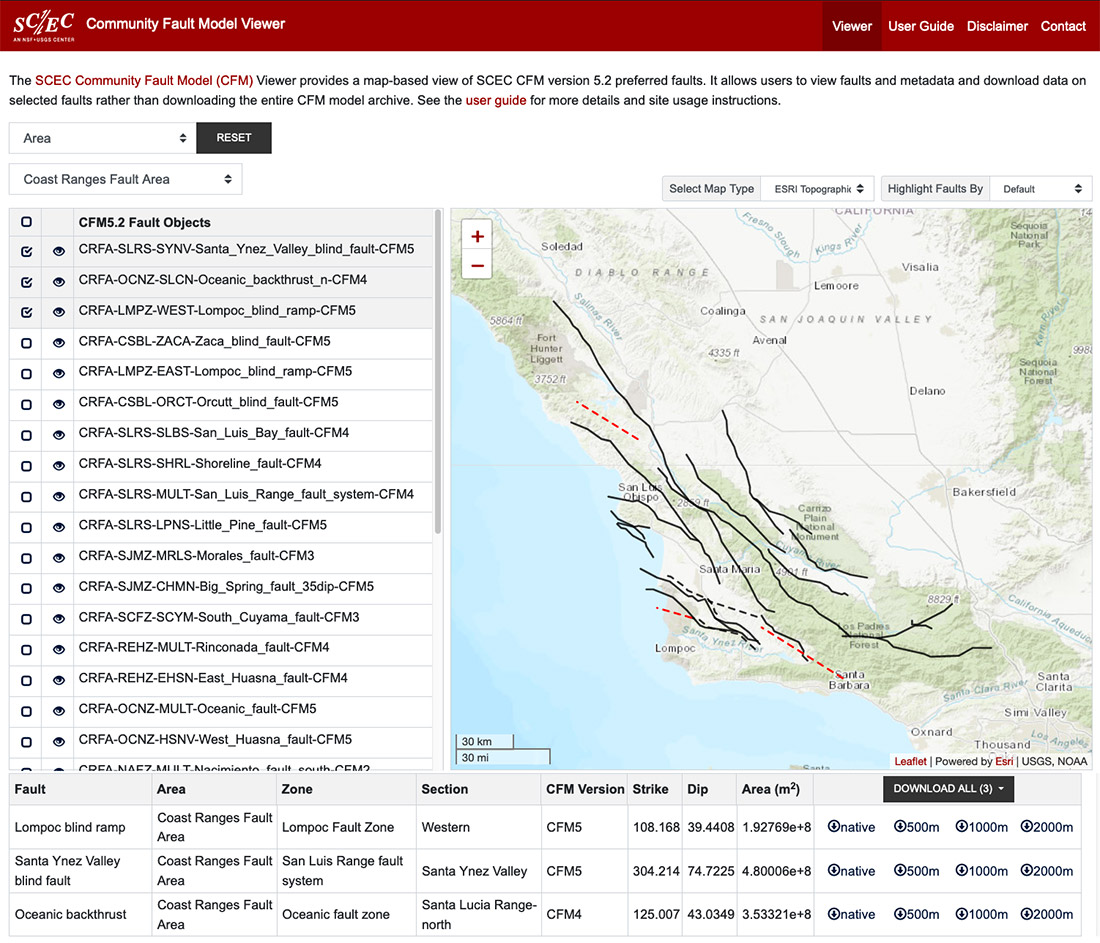
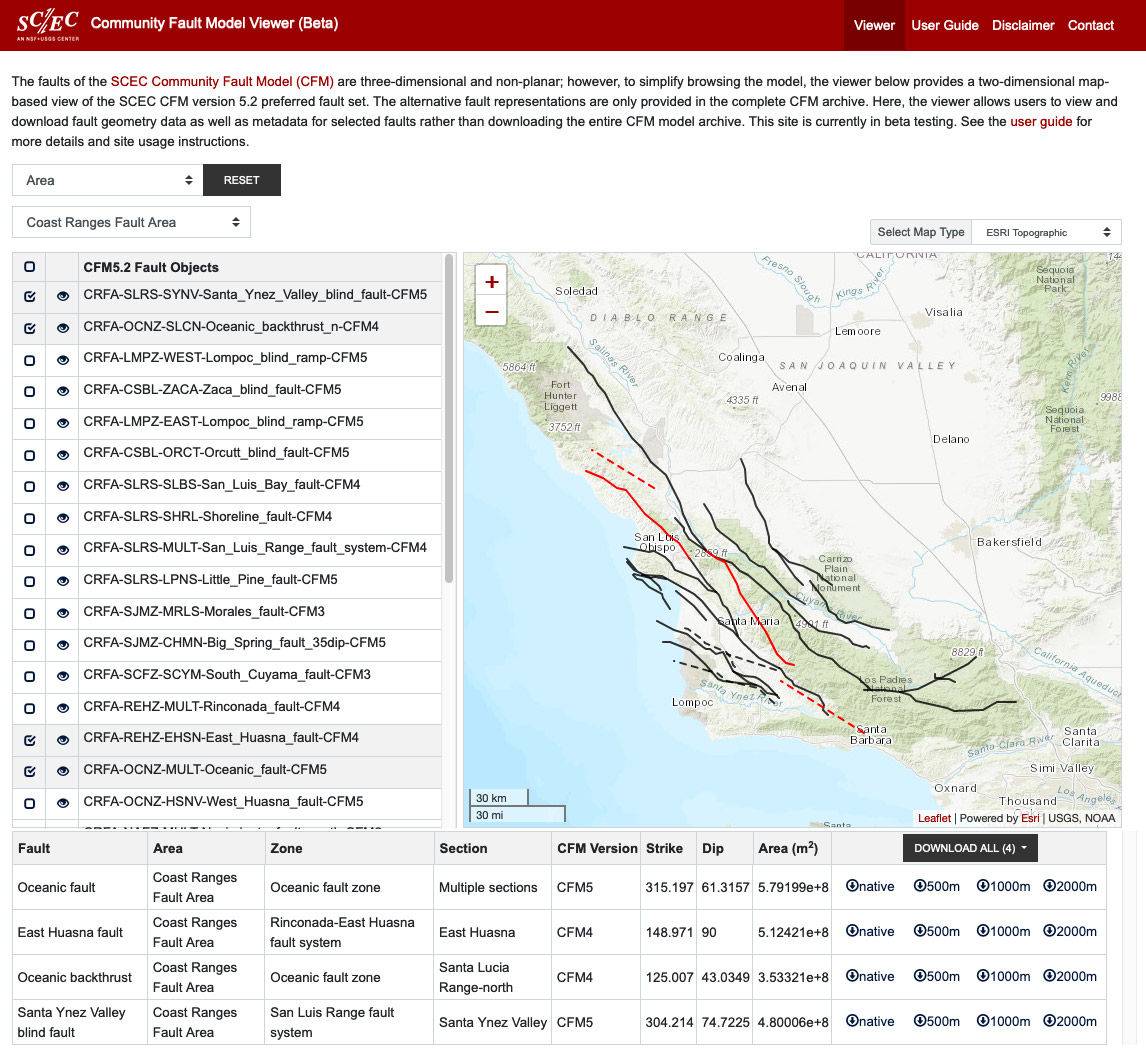
updates to user guide, some terminology, screenshots, etc.

Changed region(s): [[0.0, 0.0, 1.0, 1.0], [0.8036, 0.3998, 0.8655, 0.4305], [0.6182, 0.369, 0.68, 0.3998]]

diff --git a/web/guide.php b/web/guide.php
@@ -19,14 +19,14 @@ $header = getHeader("User Guide");
     <script type='text/javascript' src='js/vendor/jquery.min.js'></script>
     <script type='text/javascript' src='js/vendor/bootstrap.min.js'></script>
     <script type='text/javascript' src='js/vendor/jquery-ui.js'></script>
-    <title>Community Fault Model Viewer: User Guide</title>
+    <title>Community Fault Model Viewer (Beta): User Guide</title>
 </head>
 <body>
 <?php echo $header; ?>
 
 <div class="container info-page-container scec-main-container guide">
 
-    <h1>User Guide <i>(DRAFT)</i></h1>
+    <h1>User Guide</h1>
 
     <div class="row">
         <div class="col-12">
@@ -49,18 +49,20 @@ $header = getHeader("User Guide");
                below for more details.) Click on the eye icon (<span class="glyphicon glyphicon-eye-open"></span>) to
                hide or show a fault. </p>
             <p>
-                The map on the right displays each fault in its geographic location, with blind faults appearing as dashed lines. On top of the map, there are two
-                controls. The first allows the base map to be changed. By default, the map shown is <a
+                The map on the right displays each fault in its geographic location, with blind faults appearing as dashed lines. On top of the map, there is a
+                control that allows the base map to be changed. By default, the map shown is <a
                         href="https://services.arcgisonline.com/ArcGIS/rest/services/World_Topo_Map/MapServer">ESRI Topographic</a>.
                 The other map types are: <a
                         href="https://services.arcgisonline.com/ArcGIS/rest/services/NatGeo_World_Map/MapServer">ESRI National Geographic</a>, <a
                         href="https://services.arcgisonline.com/ArcGIS/rest/services/World_Imagery/MapServer">ESRI Imagery</a>, <a
-                        href="https://opentopomap.org">OTM Topographic</a>, and <a href="https://www.openstreetmap.org">OSM Street</a>. The other available control highlights the displayed faults by their strike or dip in a color spectrum from red (low values) to blue (high values). </p>
+                        href="https://opentopomap.org">OTM Topographic</a>, and <a href="https://www.openstreetmap.org">OSM Street</a>.</p>
+
+            <p><i>This site is a beta version undergoing active testing and review by the CFM community. To report any bugs or issues, please see the <a href="contact">contact page</a>.</i></p>
 
             <h4>Search</h4>
             <p>
                 The site provides a number of search criteria, primarily keyword and latitude/longitude but also the
-                following advanced search criteria: fault area, fault zone, section, name, strike, and dip. Once a
+                following advanced search criteria: fault area, fault zone, section, and name. Once a
                 search type is selected, controls will appear below in the form of another dropdown, text input boxes, or
                 sliders. </p>
             <p>
@@ -74,20 +76,23 @@ $header = getHeader("User Guide");
             <h4>Viewing and Downloading Data</h4>
 
             <p>
-                Metadata files in JSON format and tsurf files are available for download from this site. First, select the desired faults by clicking on the fault displayed on the map or clicking on fault listed in the box* to the left of the map. The selected faults are highlighted in red** on the map. The selected faults' metadata appear in the metadata table* at the bottom of the page. Click on the links on the rightmost column of the metadata table to download data for one fault. Click on the "DOWNLOAD ALL" button to download data for all selected faults. The download options are: metadata only, or metadata along with tsurf files in native, 500m, 1000m, or 2000m resolution in a ZIP archive file. </p>
+                Metadata files in JSON format and tsurf files are available for download from this site. First, select the desired faults by clicking on the fault displayed on the map or clicking on fault listed in the box* to the left of the map. The selected faults are highlighted in red** on the map. The selected faults' metadata appear in the metadata table* at the bottom of the page. Click on the links on the rightmost column of the metadata table to download data for one fault. Click on the "DOWNLOAD ALL" button to download data for all selected faults. The download options are: metadata only, or metadata along with tsurf files in native, 500m, 1000m, 2000m, or "All of the Above", in a ZIP archive file. </p>
 
 
             <p>* The scrollable boxes on this site can contain more data than is visible at one time.
+                <!--
                 <br/>
-               ** When highlighting faults by strike or slip, selected faults appear turquoise rather than red. This is
-               to avoid confusion with the strike/slip color scale. </p>
+               ** When highlighting faults by strike or dip, selected faults appear turquoise rather than red. This is
+               to avoid confusion with the strike/slip color scale.
+               -->
+            </p>
 
 
             <h4>Notes</h4>
             <ul>
                 <li>
-                    Projections: Fault representations are provided in Universal Transverse Mercator projection (UTM zone 11 S, North American datum 1927). </li>
-                <li>Strike and dip are weighted averages. The true fault surface is non-planar.</li>
+                    Projections: 3D fault representations in gocad format are provided in Universal Transverse Mercator projection (UTM zone 11S, North American datum 1927).</li>
+<!--                <li>Strike and dip are weighted averages. The true fault surface is non-planar.</li>-->
                 <li>The fault object names are comprised of metadata for each fault. For example,
                     "SAFS-SAFZ-MULT-Banning_fault_strand-CFM4" represents:
                     <ul>

diff --git a/web/viewer.php b/web/viewer.php
@@ -5,7 +5,7 @@ $header = getHeader("Viewer");
 <!DOCTYPE html>
 <html lang="en">
 <head>
-    <title>Community Fault Model Viewer</title>
+    <title>Community Fault Model Viewer (Beta)</title>
     <meta charset="utf-8">
     <meta name="viewport" content="width=device-width, initial-scale=1.0">
     <link href="css/vendor/font-awesome.min.css" rel="stylesheet">
@@ -114,7 +114,7 @@ $header = getHeader("Viewer");
 <div class="container main">
     <div class="row">
         <div class="col-12">
-            <p>The faults of the <a href="https://www.scec.org/research/cfm">SCEC Community Fault Model (CFM)</a> are three-dimensional and non-planar; however, to simplify browsing the model, the viewer below provides a two-dimensional map-based view of the SCEC CFM version 5.2 preferred fault set. The alternative fault representations are only provided in the complete CFM archive. Here, the viewer allows users to view and download fault geometry data as well as metadata for slected faults rather than downloading the entire CFM model archive.  See the <a href="guide">user guide</a> for more details and site usage instructions.</p>
+            <p>The faults of the <a href="https://www.scec.org/research/cfm">SCEC Community Fault Model (CFM)</a> are three-dimensional and non-planar; however, to simplify browsing the model, the viewer below provides a two-dimensional map-based view of the SCEC CFM version 5.2 preferred fault set. The alternative fault representations are only provided in the complete CFM archive. Here, the viewer allows users to view and download fault geometry data as well as metadata for selected faults rather than downloading the entire CFM model archive. This site is currently in beta testing. See the <a href="guide">user guide</a> for more details and site usage instructions.</p>
         </div>
     </div>
 
@@ -311,7 +311,7 @@ $header = getHeader("Viewer");
                 </div>
             </div>
         </div>
-        <div class="col-5 d-flex offset-3 align-items-end mb-2">
+        <div class="col-3 d-flex offset-5 align-items-end mb-2">
             <div>&nbsp;</div>
             <div class="input-group input-group-sm" id="map-controls">
                 <div class="input-group-prepend">
@@ -379,9 +379,6 @@ $header = getHeader("Viewer");
                                         Download All <span id="download-counter"></span>
                                     </button>
                                     <div class="dropdown-menu dropdown-menu-right">
-                                        <button class="dropdown-item" type="button" value="all"
-                                                onclick="executeDownload(this.value);">All
-                                        </button>
                                         <button class="dropdown-item" type="button" value="meta"
                                                 onclick="executeDownload(this.value);">Metadata
                                         </button>
@@ -396,6 +393,9 @@ $header = getHeader("Viewer");
                                         </button>
                                         <button class="dropdown-item" type="button" value="2000m"
                                                 onclick="executeDownload(this.value);">2000m + Metadata
+                                        </button>
+                                        <button class="dropdown-item" type="button" value="all"
+                                              onclick="executeDownload(this.value);">All of the Above
                                         </button>
                                     </div>
                                 </div>

diff --git a/web/disclaimer.php b/web/disclaimer.php
@@ -19,14 +19,14 @@ $header = getHeader("Disclaimer");
     <script type='text/javascript' src='js/vendor/jquery.min.js'></script>
     <script type='text/javascript' src='js/vendor/bootstrap.min.js'></script>
     <script type='text/javascript' src='js/vendor/jquery-ui.js'></script>
-    <title>Community Fault Model Viewer: Disclaimer</title>
+    <title>Community Fault Model Viewer (Beta): Disclaimer</title>
 </head>
 <body>
 <?php echo $header; ?>
 
 <div class="container info-page-container scec-main-container">
 
-    <h1>Disclaimer <i>(DRAFT)</i></h1>
+    <h1>Disclaimer</h1>
 
     <div>
 		<p>The Community Fault Model (CFM) Viewer Tool is provided “as is” and without warranties of any kind. While <a href="https://www.scec.org">SCEC</a> and the <a href="https://www.scec.org/research/cfm">the CFM development team</a> have made every effort to provide data from reliable sources or methodologies, SCEC and the CFM development team do not make any representations or warranties as to the accuracy, completeness, reliability, currency, or quality of any data provided herein. SCEC and the CFM development team do not intend the results provided by this tool to replace the sound judgment of a competent professional, who has knowledge and experience in the appropriate field(s) of practice. By using this tool, you accept to release SCEC and the CFM development team of any and all liability.</p>

diff --git a/web/php/navigation.php b/web/php/navigation.php
@@ -38,7 +38,7 @@ _END;
     <div class="container top">
         <nav class="navbar navbar-expand-lg navbar-dark  scec-header">
             <a class="navbar-brand" href="$host_site_actual_path"><img class="scec-logo" src="img/sceclogo_transparent.png">
-                &nbsp;Community Fault Model Viewer</a>
+                &nbsp;Community Fault Model Viewer (Beta)</a>
                   <button class="navbar-toggler" type="button" data-toggle="collapse" data-target="#navbarNav" aria-controls="navbarNav" aria-expanded="false" aria-label="Toggle navigation">
     <span class="navbar-toggler-icon"></span>
   </button>

diff --git a/web/contact.php b/web/contact.php
@@ -19,7 +19,7 @@ $header = getHeader("Contact");
     <script type='text/javascript' src='js/vendor/jquery.min.js'></script>
     <script type='text/javascript' src='js/vendor/bootstrap.min.js'></script>
     <script type='text/javascript' src='js/vendor/jquery-ui.js'></script>
-    <title>Community Fault Model Viewer: Contact</title>
+    <title>Community Fault Model Viewer (Beta): Contact</title>
 </head>
 <body>
 <?php echo $header; ?>
